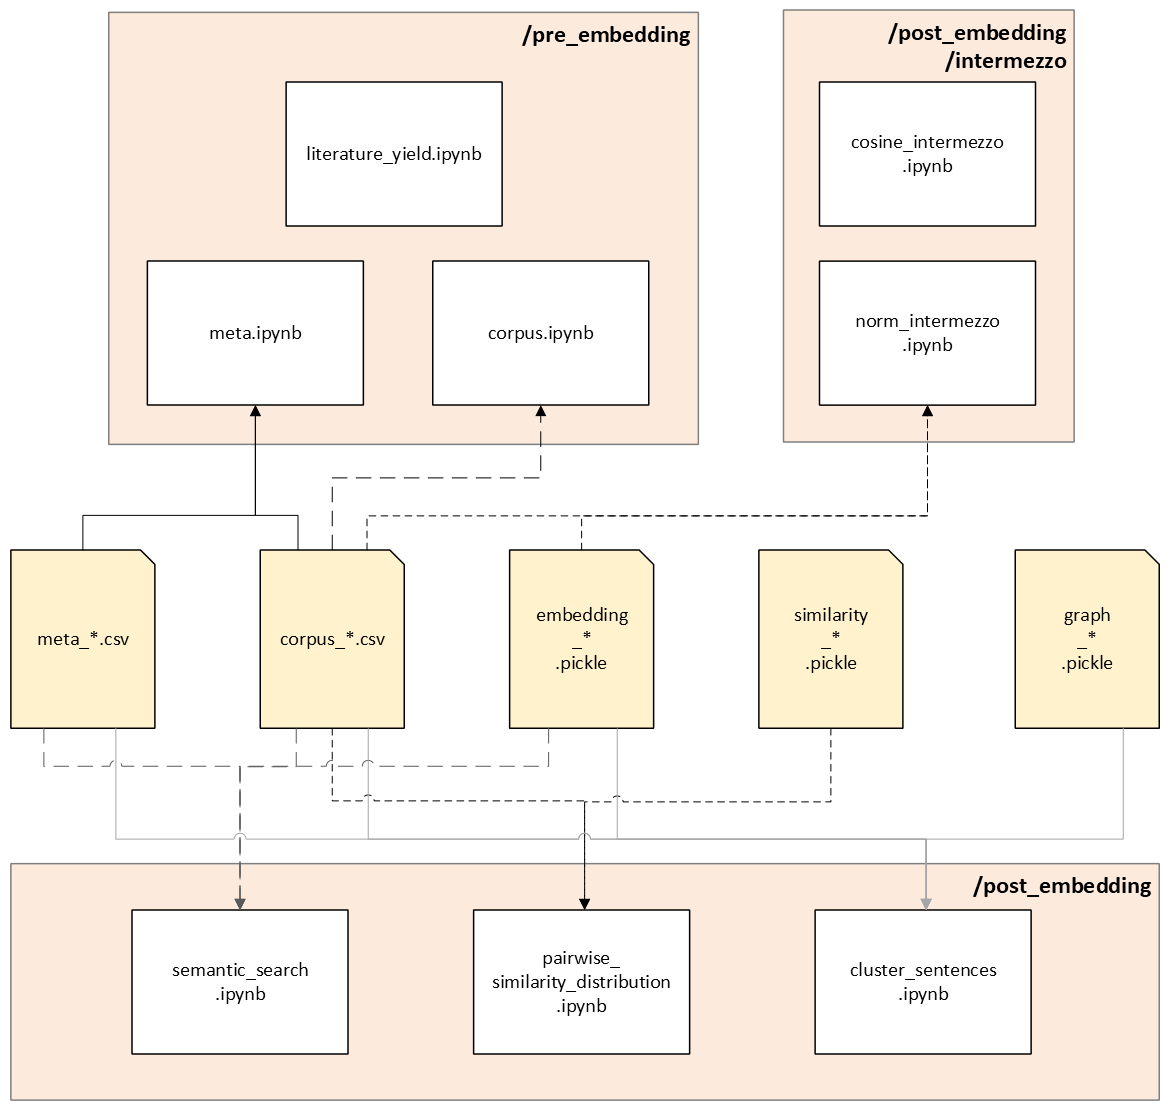
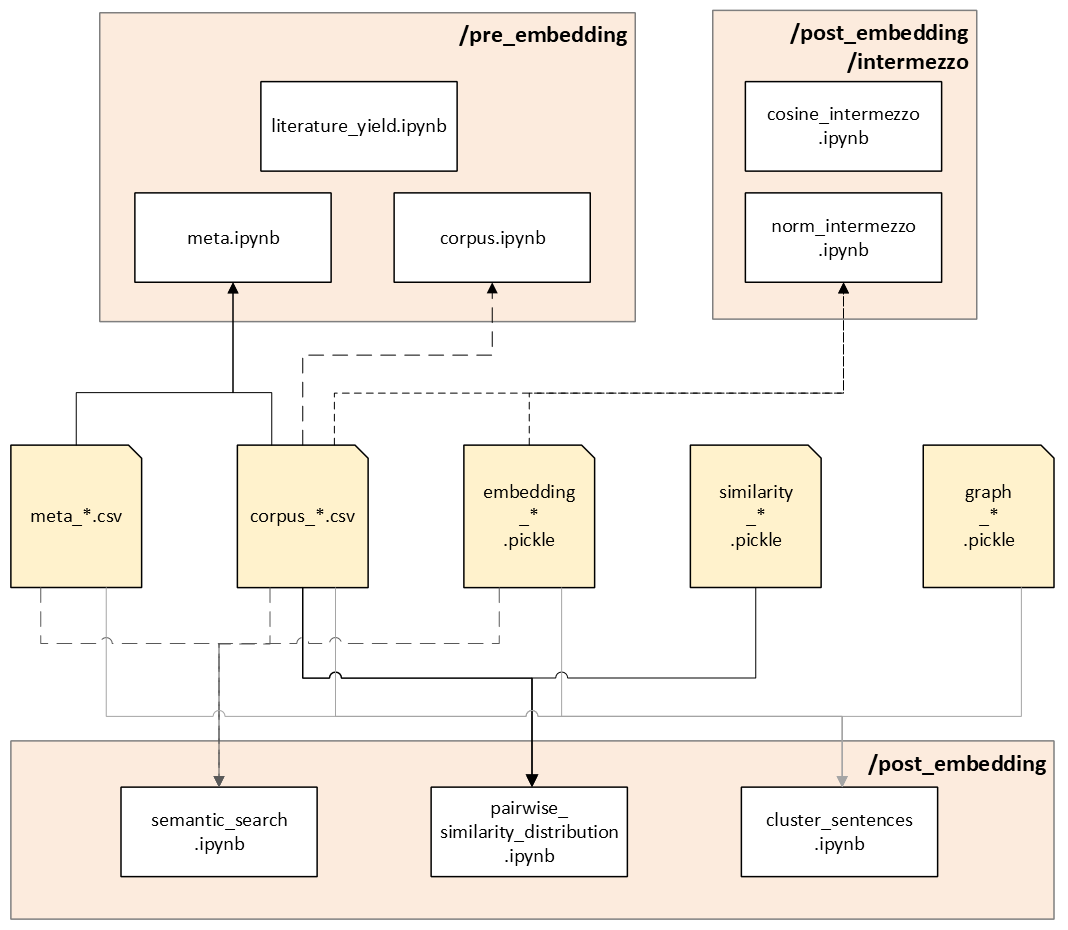
Minor changes for Sphinx

diff --git a/docs/source/background.rst b/docs/source/background.rst
@@ -15,11 +15,11 @@ Frequently Asked Questions
 .. dropdown:: **Are all academic papers processed?**
     :open:
 
-    Unfortunately, no. Only open access papers are automatically processed that are hosted on websites that do not check for bot activity. If you like to include other sources as well, then you'll like the answer to the next question. |:wink:|
+    Unfortunately, no. Only open access papers are automatically processed that are hosted on websites and do not check for bot activity. If you like to include other sources as well, then you'll like the answer to the next question. |:wink:|
 
-.. dropdown:: **Can I manually add my favorite papers?**
+.. dropdown:: **Can I manually feed papers to the pipeline?**
 
-    Yes! You will need to have the PDF, its PubMed ID, and associated meta data. Follow this protocol and be successful:
+    Yes! You will need to have the PDF, its PubMed ID, and associated meta data. Please follow this protocol and be successful:
         
         - Rename the PDF to its PubMed ID.
         - Place the PDF in `data/pdf_papers`.

diff --git a/docs/source/index.rst b/docs/source/index.rst
@@ -11,7 +11,7 @@ Last updated: |version|
 Overview
 --------
 
-Open knowledge explorer is a python pipeline for finding full open access papers on keywords and processing them into a comprehensible summary with valid references to papers - making given findings generated by artificial intelligence traceable. 
+Open knowledge explorer is a python pipeline for finding relations between concepts. It processes sentences from **full open access papers** into **sentence embeddings** for knowledge exploration with **valid references** to papers - making given findings **traceable**. 
 Please find the github page containing `the code over here <https://github.com/CharmingChocobo/master_graduation_project/tree/main>`_ and
 check out `this extensive documentation page <https://bioinf.nl/~jbeenen/oke/html/index.html>`_.
 
